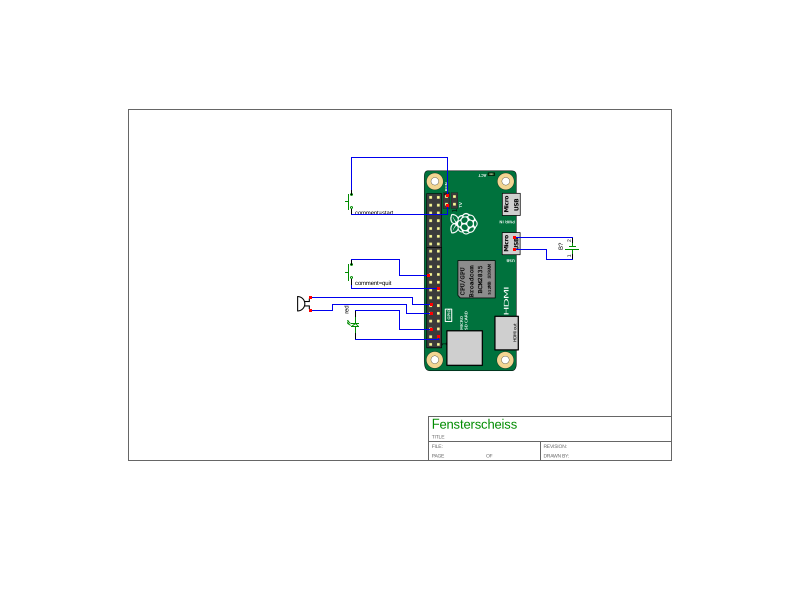
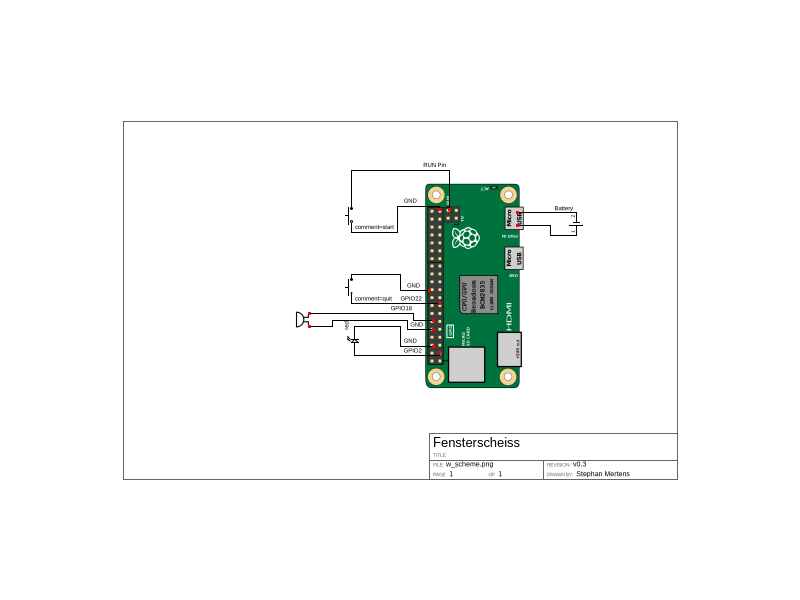
Ready for first test.

diff --git a/Fensterscheiss/run.py b/Fensterscheiss/run.py
@@ -8,7 +8,9 @@ G.setwarnings(0)
 LED = 2
 G.setup(LED, G.OUT)
 Button = 22
+G.setup(Button, G.IN, pull_up_down=G.PUD_UP)
 Buzzpin = 18
+G.setup(Buzzpin, G.PWM)
 
 
 def blink():
@@ -26,14 +28,19 @@ def countdown():
     pass
 
 
-def button(pin):
-    G.setup(pin, G.IN, pull_up_down=G.PUD_UP)
-    G.wait_for_edge(pin, G.FALLING)
+def button():
+    G.wait_for_edge(Button, G.FALLING)
     return True
 
 
 def buzzer():
-    pass
+    p = G.PWM(Button, 200)
+    p.start(0)
+    while not button():
+        p.ChangeDutyCircle(50)
+        sleep(1)
+        p.ChangeDutyCircle(100)
+        sleep(1)
 
 
 if __name__ == '__main__':

diff --git a/Fensterscheiss/README.md b/Fensterscheiss/README.md
@@ -19,6 +19,11 @@ sudo python /home/alarm/run.py
 
 ## Schaltplan
 ![](https://github.com/neur0nic/RPiRepos/blob/master/Fensterscheiss/w_scheme.png)
-## Lizens
 
+## Lizens
+"THE BEER-WARE LICENSE" (Revision 42):
+<stephan.mertens1@gmx.net> wrote this file. 
+As long as you retain this notice you can do whatever you want with this
+stuff. If we meet some day, and you think this stuff is worth it, you
+can buy me a beer in return. Stephan Mertens
 
